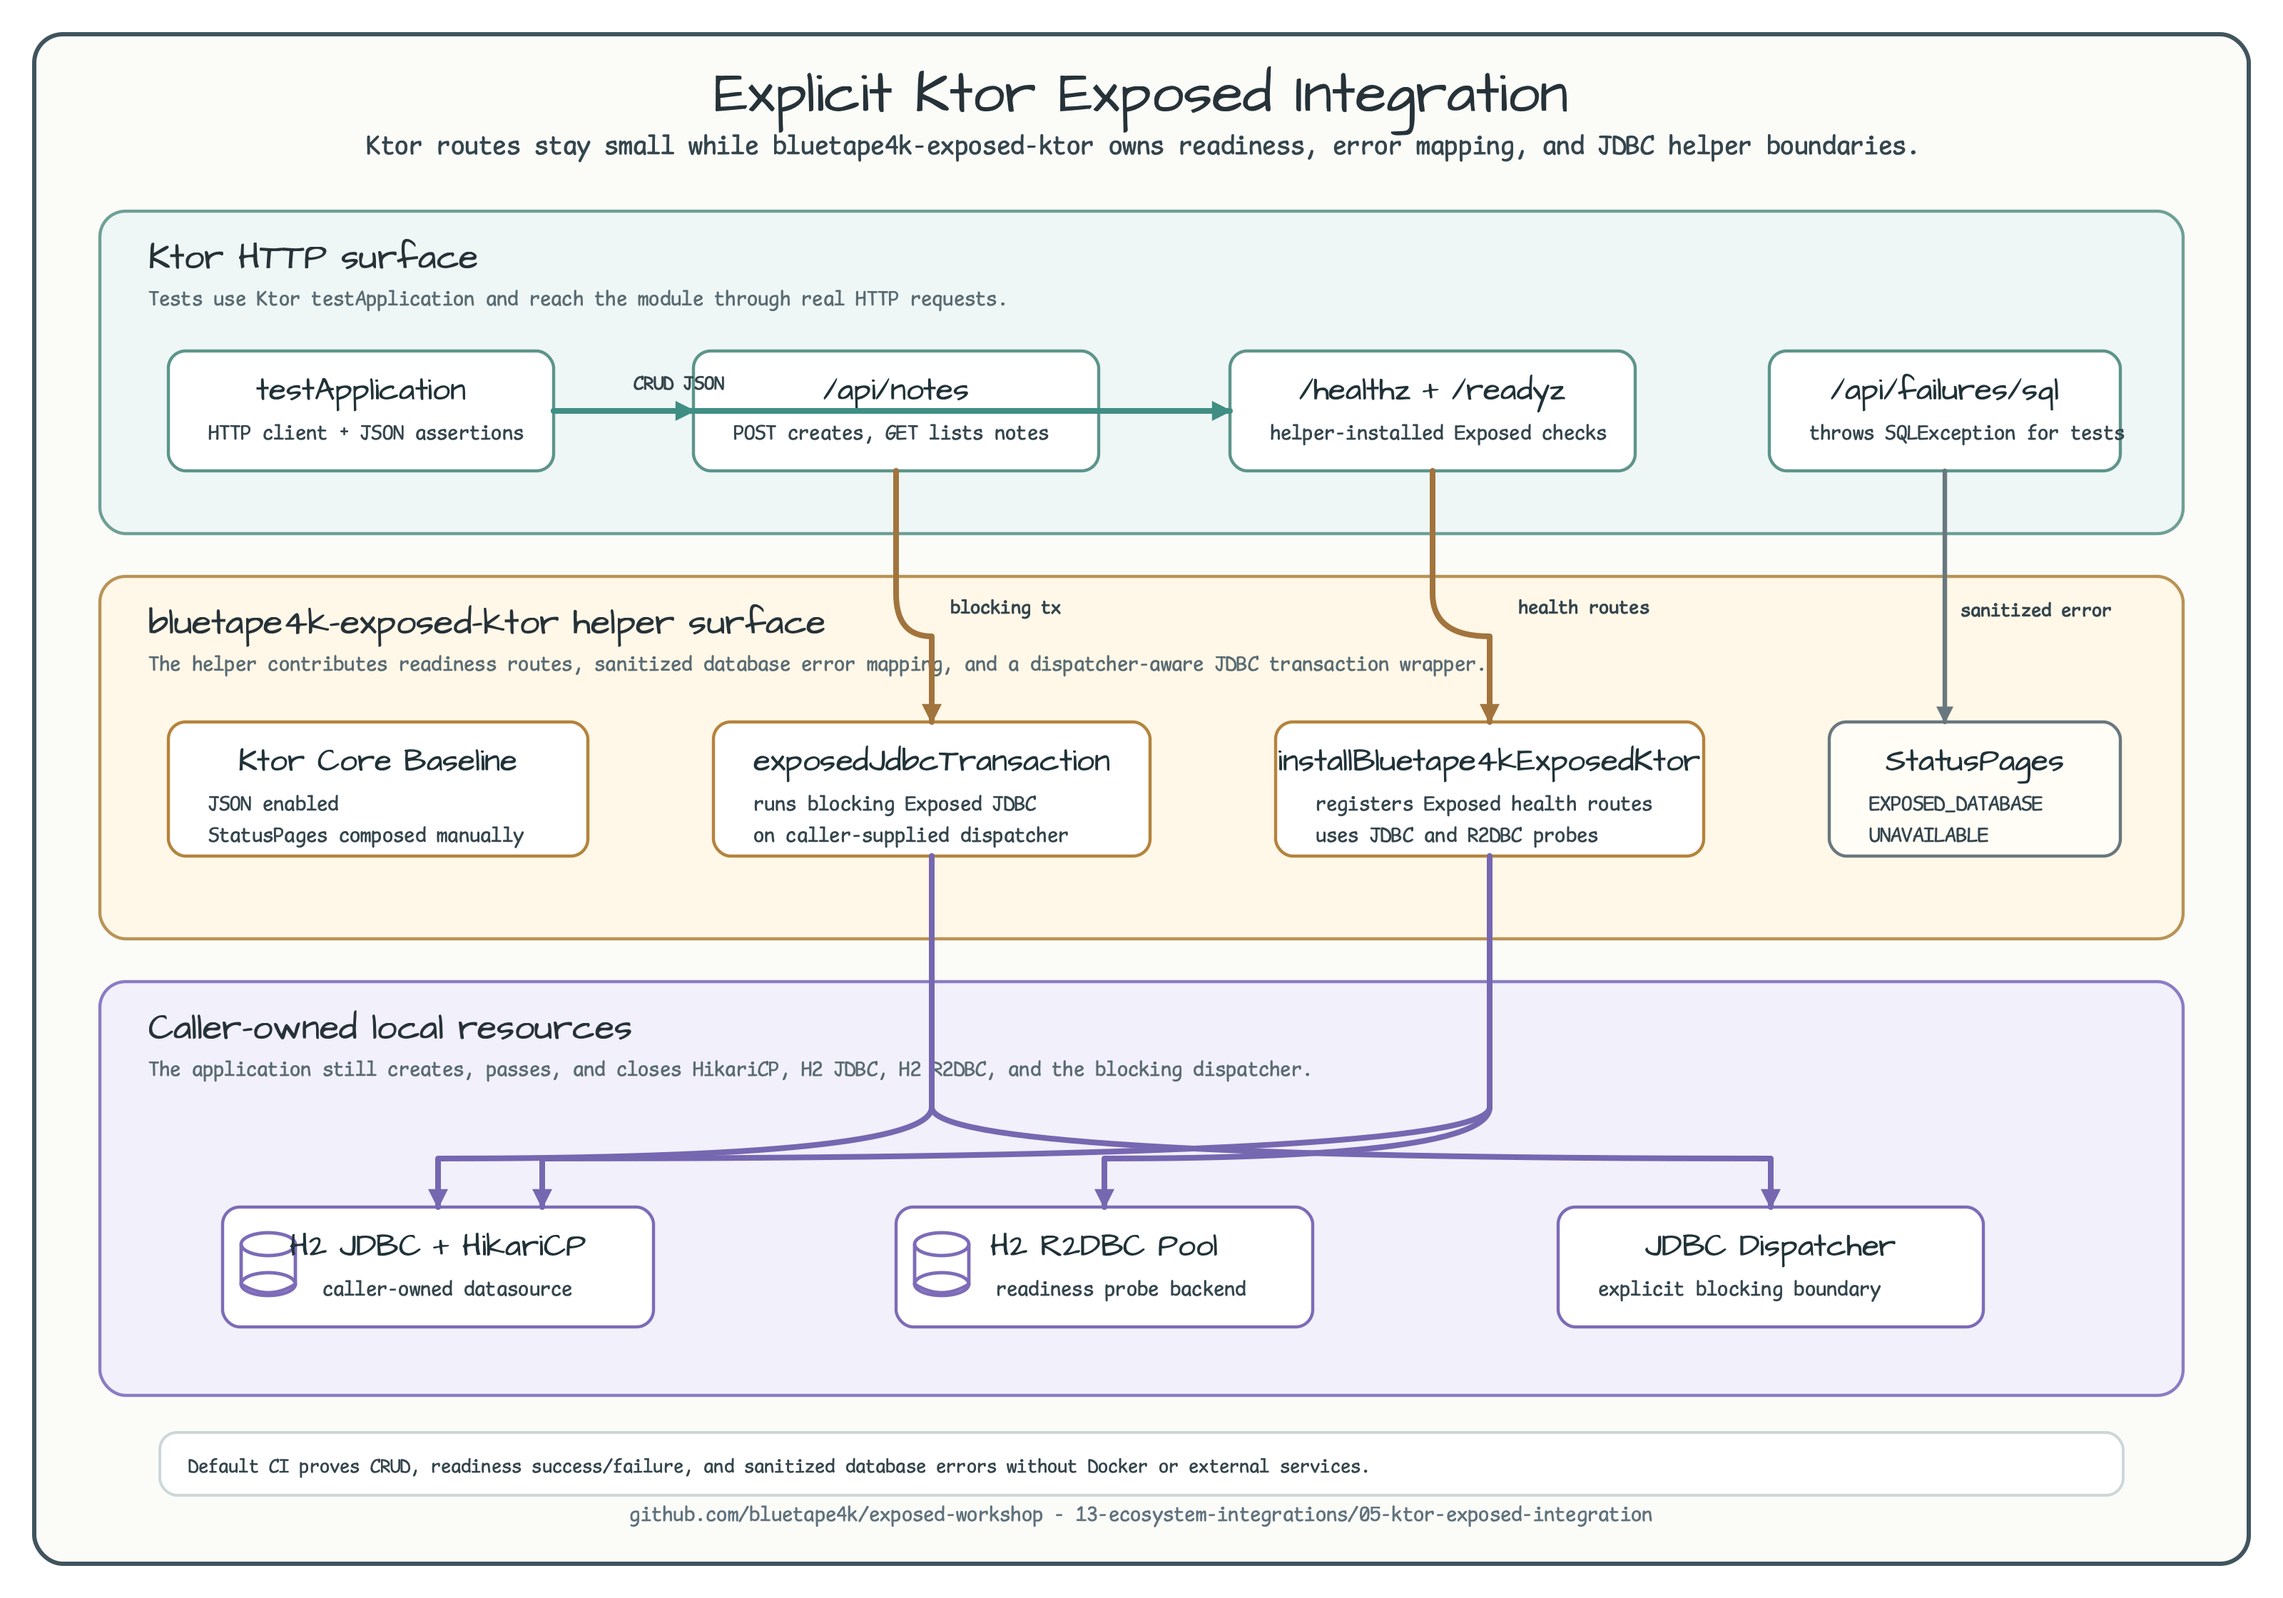
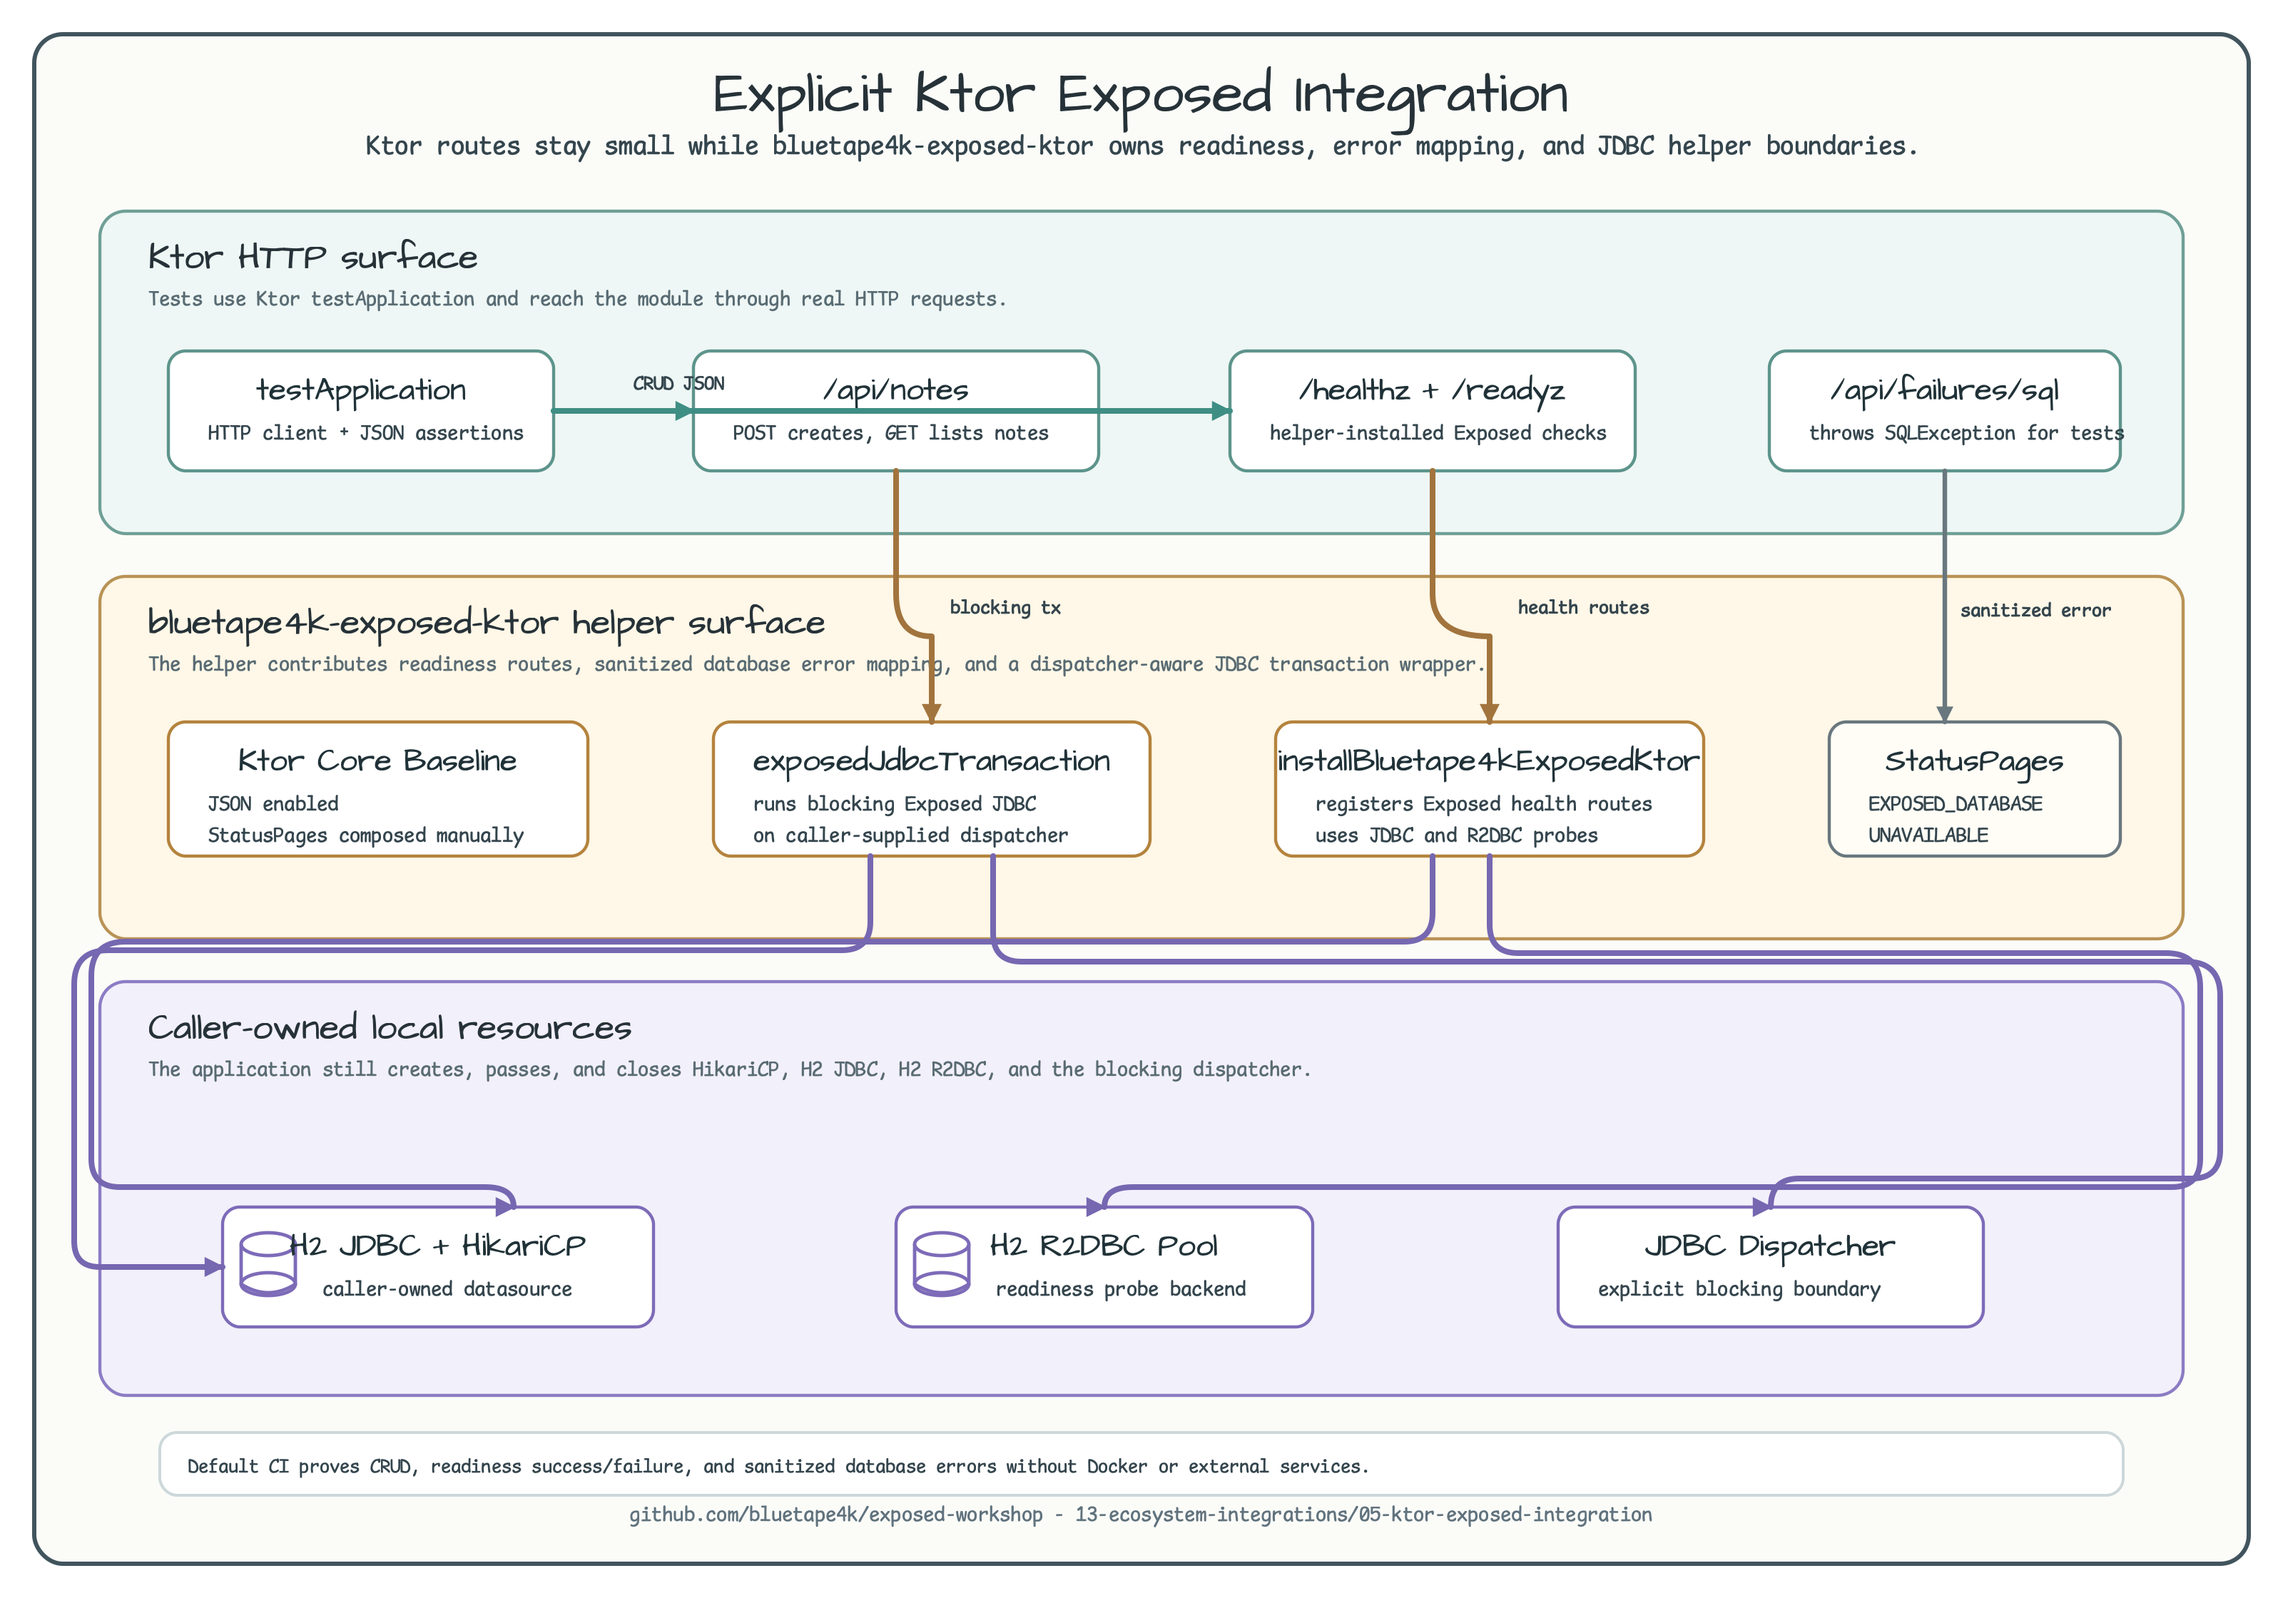
docs: repair chapter 13 connector routing
Keep README diagrams readable by routing resource connectors through clear side corridors instead of lane title text.

Constraint: user-reported connector overlap in chapter 13 diagrams must trigger pattern audit across related README assets.
Rejected: accepting geometry-only audit output | rendered PNG still showed resource connectors crossing title and note text.
Confidence: high
Scope-risk: narrow
Directive: For connector-heavy README diagrams, inspect the full-size PNG cluster before reporting checklist pass.
Tested: xmllint for six Chapter 13 README SVGs; diagram-geometry-audit.py for six SVGs; diagram-endpoint-audit.py for architecture SVGs; diagram-sequence-style-audit.py for sequence SVGs; CairoSVG render; full-size PNG and contact-sheet inspection; git diff --check.
Not-tested: full Gradle build; diagram-only documentation change.

Changed region(s): [[0.0312, 0.5938, 0.9688, 0.75], [0.0625, 0.5312, 0.9688, 0.625], [0.0312, 0.7812, 0.0938, 0.8125]]

diff --git a/docs/lessons/2026-06-29-chapter13-diagram-connector-qa.md b/docs/lessons/2026-06-29-chapter13-diagram-connector-qa.md
@@ -1,0 +1,33 @@
+# Chapter 13 Diagram Connector QA
+
+## Context
+
+The Ktor Exposed integration README diagram passed SVG syntax and geometry
+checks, but the rendered PNG still showed resource connectors crossing the
+local-resource lane title and note text.
+
+## Decision
+
+Route connector-heavy diagrams through explicit side corridors and reserve
+lane title/note bands as no-flow zones. Static audits are necessary but not
+sufficient for README diagrams.
+
+## Outcome
+
+`05-ktor-exposed-integration-architecture-01.svg` now routes resource
+connectors through the canvas margins and the blank band above resource cards,
+then enters each card at a clear edge.
+
+## Verification
+
+- `xmllint --noout` for the six Chapter 13 README SVGs.
+- `diagram-geometry-audit.py` for the six Chapter 13 README SVGs.
+- `diagram-endpoint-audit.py` for the Chapter 13 architecture SVGs.
+- `diagram-sequence-style-audit.py` for the sequence SVGs.
+- Full-size rendered PNG inspection plus a six-diagram contact sheet.
+
+## Future Work
+
+For connector-heavy README diagrams, inspect the full-size PNG before reporting
+the diagram checklist as passed. Contact sheets are useful for coverage, but
+they do not replace targeted full-size inspection of dense connector areas.
